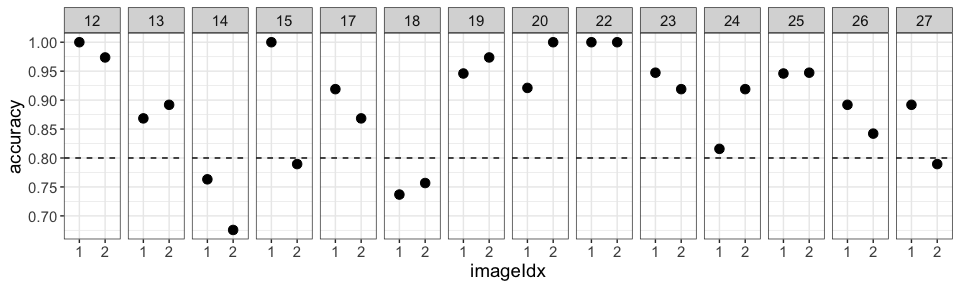
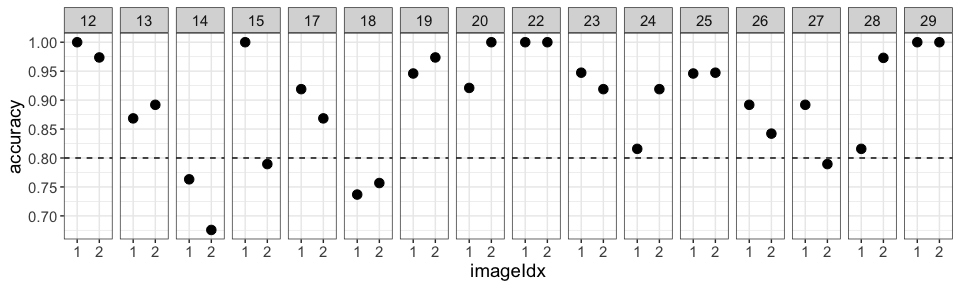
update notebook

diff --git a/analysis/individual_analyses/individual_analyses.md b/analysis/individual_analyses/individual_analyses.md
@@ -44,6 +44,8 @@ subject:
 |    25 | S3-12.jpg |    0.74 | S4-20.jpg |    0.54 |
 |    26 | S1-15.jpg |    0.59 | S2-19.jpg |    0.68 |
 |    27 | S2-19.jpg |    0.58 | S1-15.jpg |    0.68 |
+|    28 | S4-20.jpg |    0.56 | S3-12.jpg |    0.59 |
+|    29 | S4-20.jpg |    0.50 | S3-12.jpg |    0.91 |
 
 <img src="../../imageGrid.png" width="350px" style="display: block; margin: auto;" />
 
@@ -57,15 +59,11 @@ subject:
 
 ### what do RTs look like during learning?
 
-![](individual_analyses_files/figure-gfm/learning%20RTs-1.png)<!-- -->
+![](individual_analyses_files/figure-gfm/learning%20RTs-1.png)<!-- -->![](individual_analyses_files/figure-gfm/learning%20RTs-2.png)<!-- -->![](individual_analyses_files/figure-gfm/learning%20RTs-3.png)<!-- -->![](individual_analyses_files/figure-gfm/learning%20RTs-4.png)<!-- -->
 
 ------------------------------------------------------------------------
 
 ## inference data
-
-### what can learning RTs for each cue tell us about how those cues affect decision performance?
-
-<img src="individual_analyses_files/figure-gfm/group inference summary-1.png" style="display: block; margin: auto;" />
 
 ### what can learning RTs for each cue tell us about how those cues affect decision performance?
 
@@ -75,4 +73,13 @@ subject:
 
 ![](individual_analyses_files/figure-gfm/group%20regressions:%20accuracy-1.png)<!-- -->
 
-### what about choice probabilities?
+#### model comparison metrics
+
+``` r
+knitr::kable(compare_performance(m_cue, m_estimate, metrics=c('AIC', 'BIC', 'RMSE', 'Log_loss')))
+```
+
+| Name       | Model |      AIC | AIC_wt |      BIC | BIC_wt |      RMSE |  Log_loss |
+|:-----------|:------|---------:|-------:|---------:|-------:|----------:|----------:|
+| m_cue      | glm   | 6327.915 |      0 | 6347.255 |      0 | 0.4926499 | 0.6784627 |
+| m_estimate | glm   | 5538.980 |      1 | 5551.637 |      1 | 0.4876710 | 0.6684759 |
